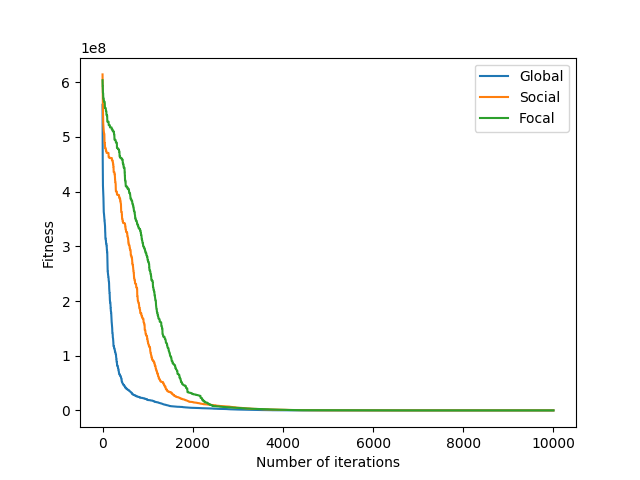
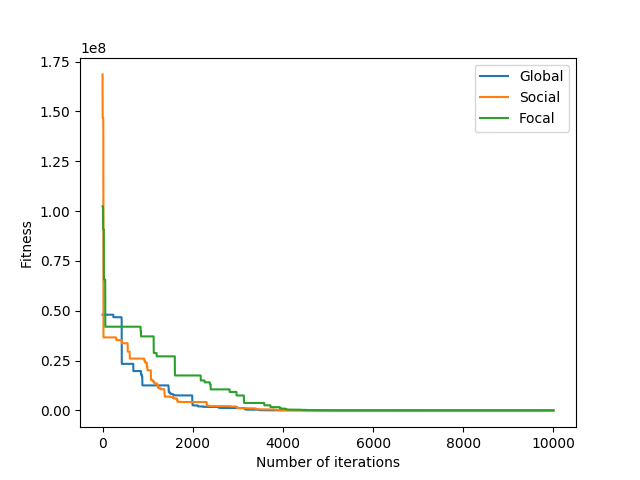
Fix social communication strategy

diff --git a/pso/particle.py b/pso/particle.py
@@ -3,14 +3,12 @@ import numpy as np
 
 
 class Particle(object):
-    def __init__(self, fn, max_speed=0.5):
+    def __init__(self, fn, max_speed=1.0):
         self.__fn = fn
         self.__id = str(uuid.uuid4())
+        self.__max_speed = max_speed * (fn.max - fn.min)
 
-        fn_range = fn.max - fn.min
-
-        self.__max_speed = max_speed * fn_range
-        self.__speed = np.random.random(fn.dimensions) - 0.5
+        self.__speed = np.zeros(fn.dimensions)
         self.__position = fn.random_region_scaling()
         self.__restrict_to_fn_boundaries()
 
@@ -40,8 +38,8 @@ class Particle(object):
         return self.__speed
 
     def update(self, a, b, c1, c2):
-        r1 = np.random.random(self.__position.shape)
-        r2 = np.random.random(self.__position.shape)
+        r1 = np.random.uniform(0.0, 1.0, self.__fn.dimensions)
+        r2 = np.random.uniform(0.0, 1.0, self.__fn.dimensions)
 
         inertia = a * self.__speed
         cognitive_component = b * c1 * r1 * (self.cognitive_reference - self.__position)
@@ -55,7 +53,7 @@ class Particle(object):
         if not self.is_out_of_bounds():
             fitness = self.__fn(self.__position)
 
-            if fitness <= self.__fitness:
+            if fitness < self.__fitness:
                 self.__fitness = fitness
                 self.cognitive_reference = self.__position
 

diff --git a/pso/strategies.py b/pso/strategies.py
@@ -80,7 +80,7 @@ class Communication(object):
                 elif right_index >= swarm_length:
                     right_index = 0
 
-                return [swarm[left_index], swarm[right_index]]
+                return [swarm[left_index], particle, swarm[right_index]]
 
             def __call__(self, particle, swarm):
                 sub_swarm = self.__find_neighborhood(particle, swarm)
